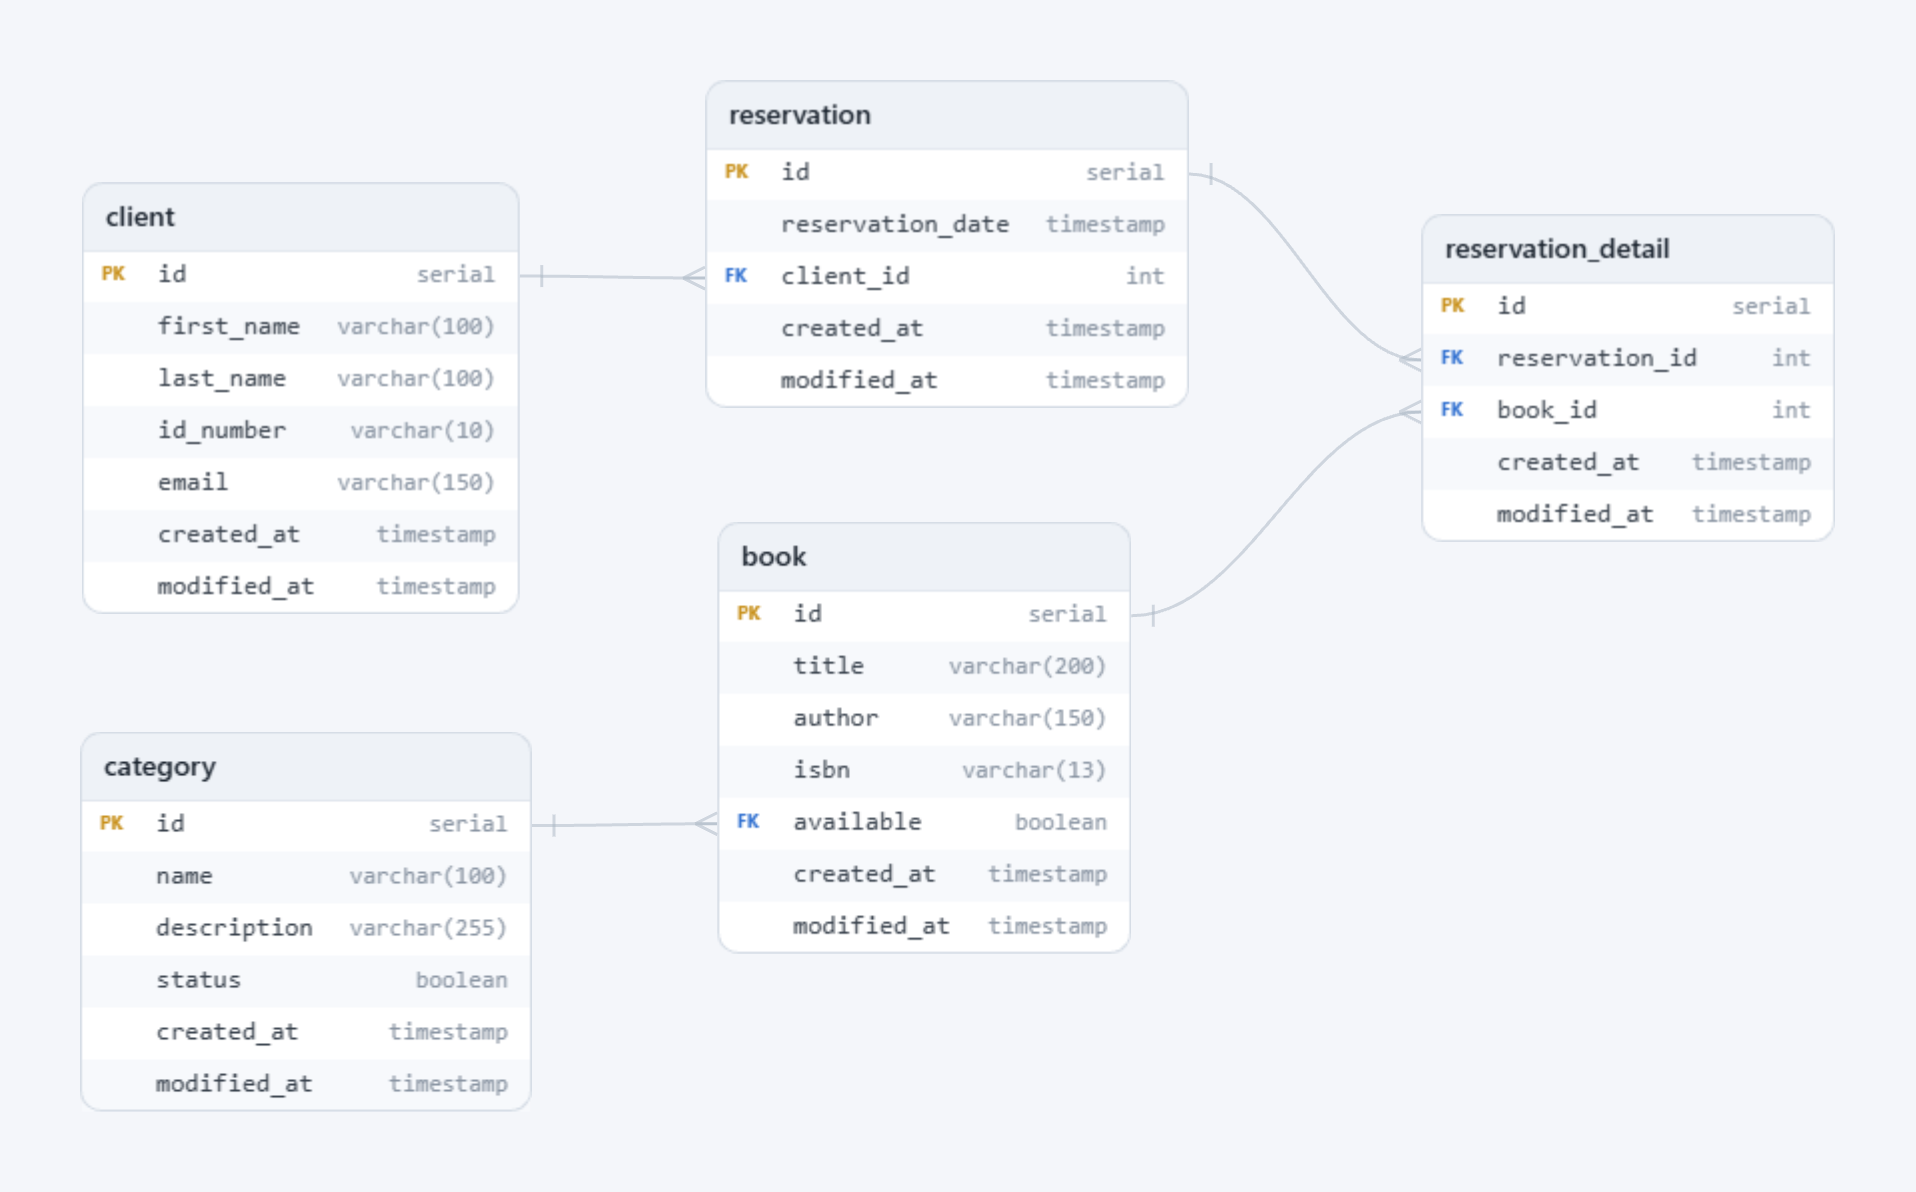
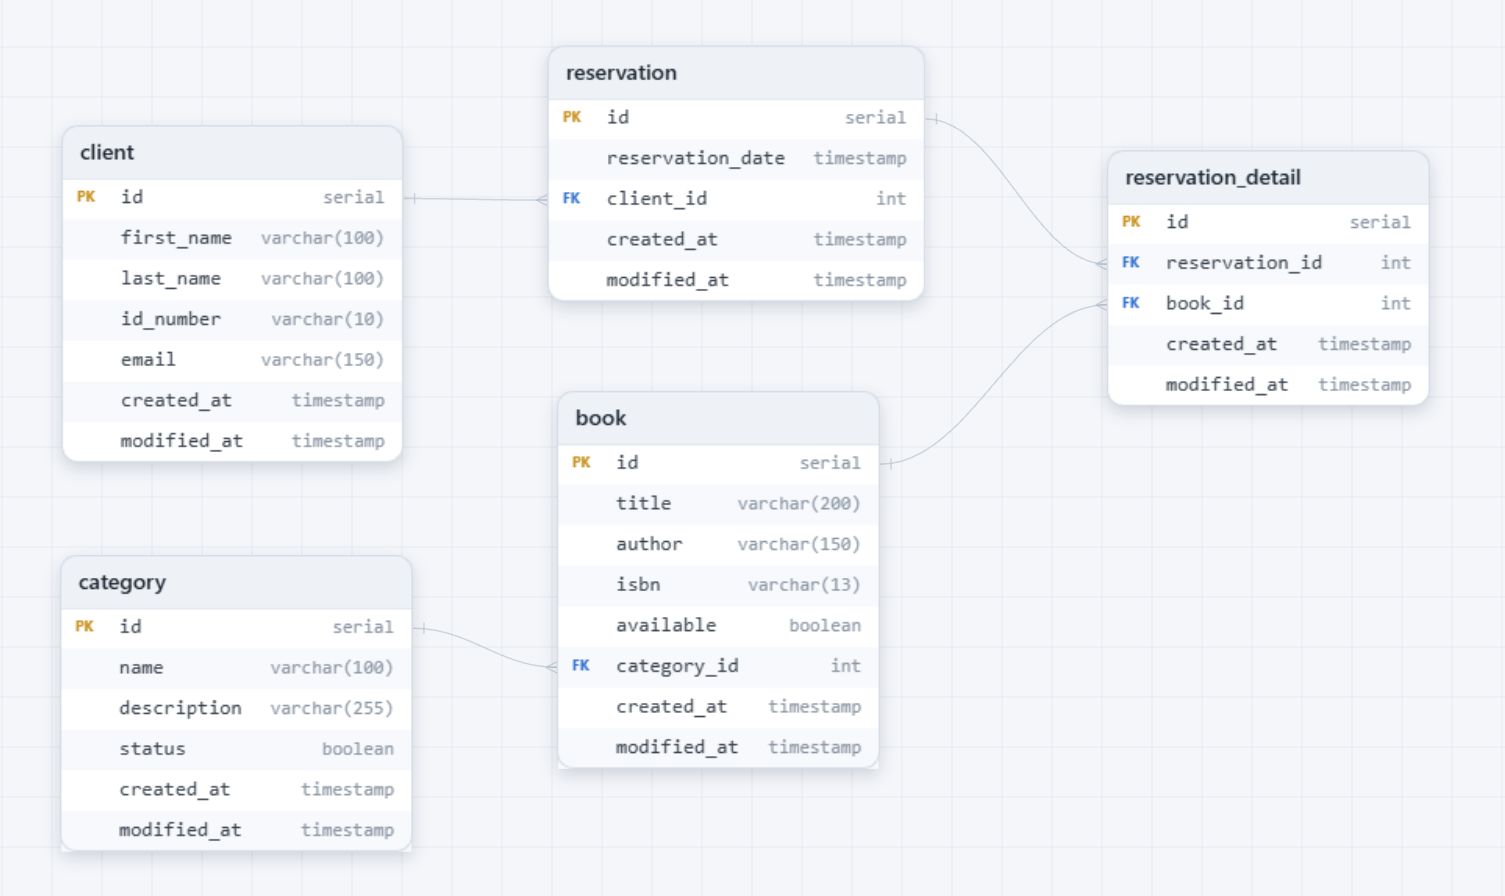
improves - sidebar styles - fix database schema

diff --git a/library-app-frontend/src/app/core/layout/sidebar/sidebar.component.ts b/library-app-frontend/src/app/core/layout/sidebar/sidebar.component.ts
@@ -12,6 +12,8 @@ import { RouterLink, RouterLinkActive } from '@angular/router';
 export class SidebarComponent {
 
   protected readonly links = [
+    { path: '/pages/categories', label: 'Categories', icon: 'category' },
+    { path: '/pages/books', label: 'Books', icon: 'book' },
     { path: '/pages/clients', label: 'Clients', icon: 'people' }
   ];
 }

diff --git a/library-app-frontend/src/app/core/layout/sidebar/sidebar.component.html b/library-app-frontend/src/app/core/layout/sidebar/sidebar.component.html
@@ -4,5 +4,6 @@
             <mat-icon matListItemIcon>{{ link.icon }}</mat-icon>
             <span matListItemTitle>{{ link.label }}</span>
         </a>
+        <mat-divider />
     }
 </mat-nav-list>

diff --git a/library-app-frontend/src/app/core/layout/sidebar/sidebar.component.css b/library-app-frontend/src/app/core/layout/sidebar/sidebar.component.css
@@ -1,3 +1,8 @@
 .active {
     background-color: var(--mat-sys-secondary-container);
+    border-radius: 0 !important;
+}
+
+.mat-mdc-list-item {
+    border-radius: 0 !important;
 }

diff --git a/library-app-frontend/src/styles.css b/library-app-frontend/src/styles.css
@@ -6,3 +6,7 @@
     box-shadow: var(--mat-sys-level2);
     overflow: hidden;
 }
+
+.cancel-button {
+  background-color: red !important;
+}
